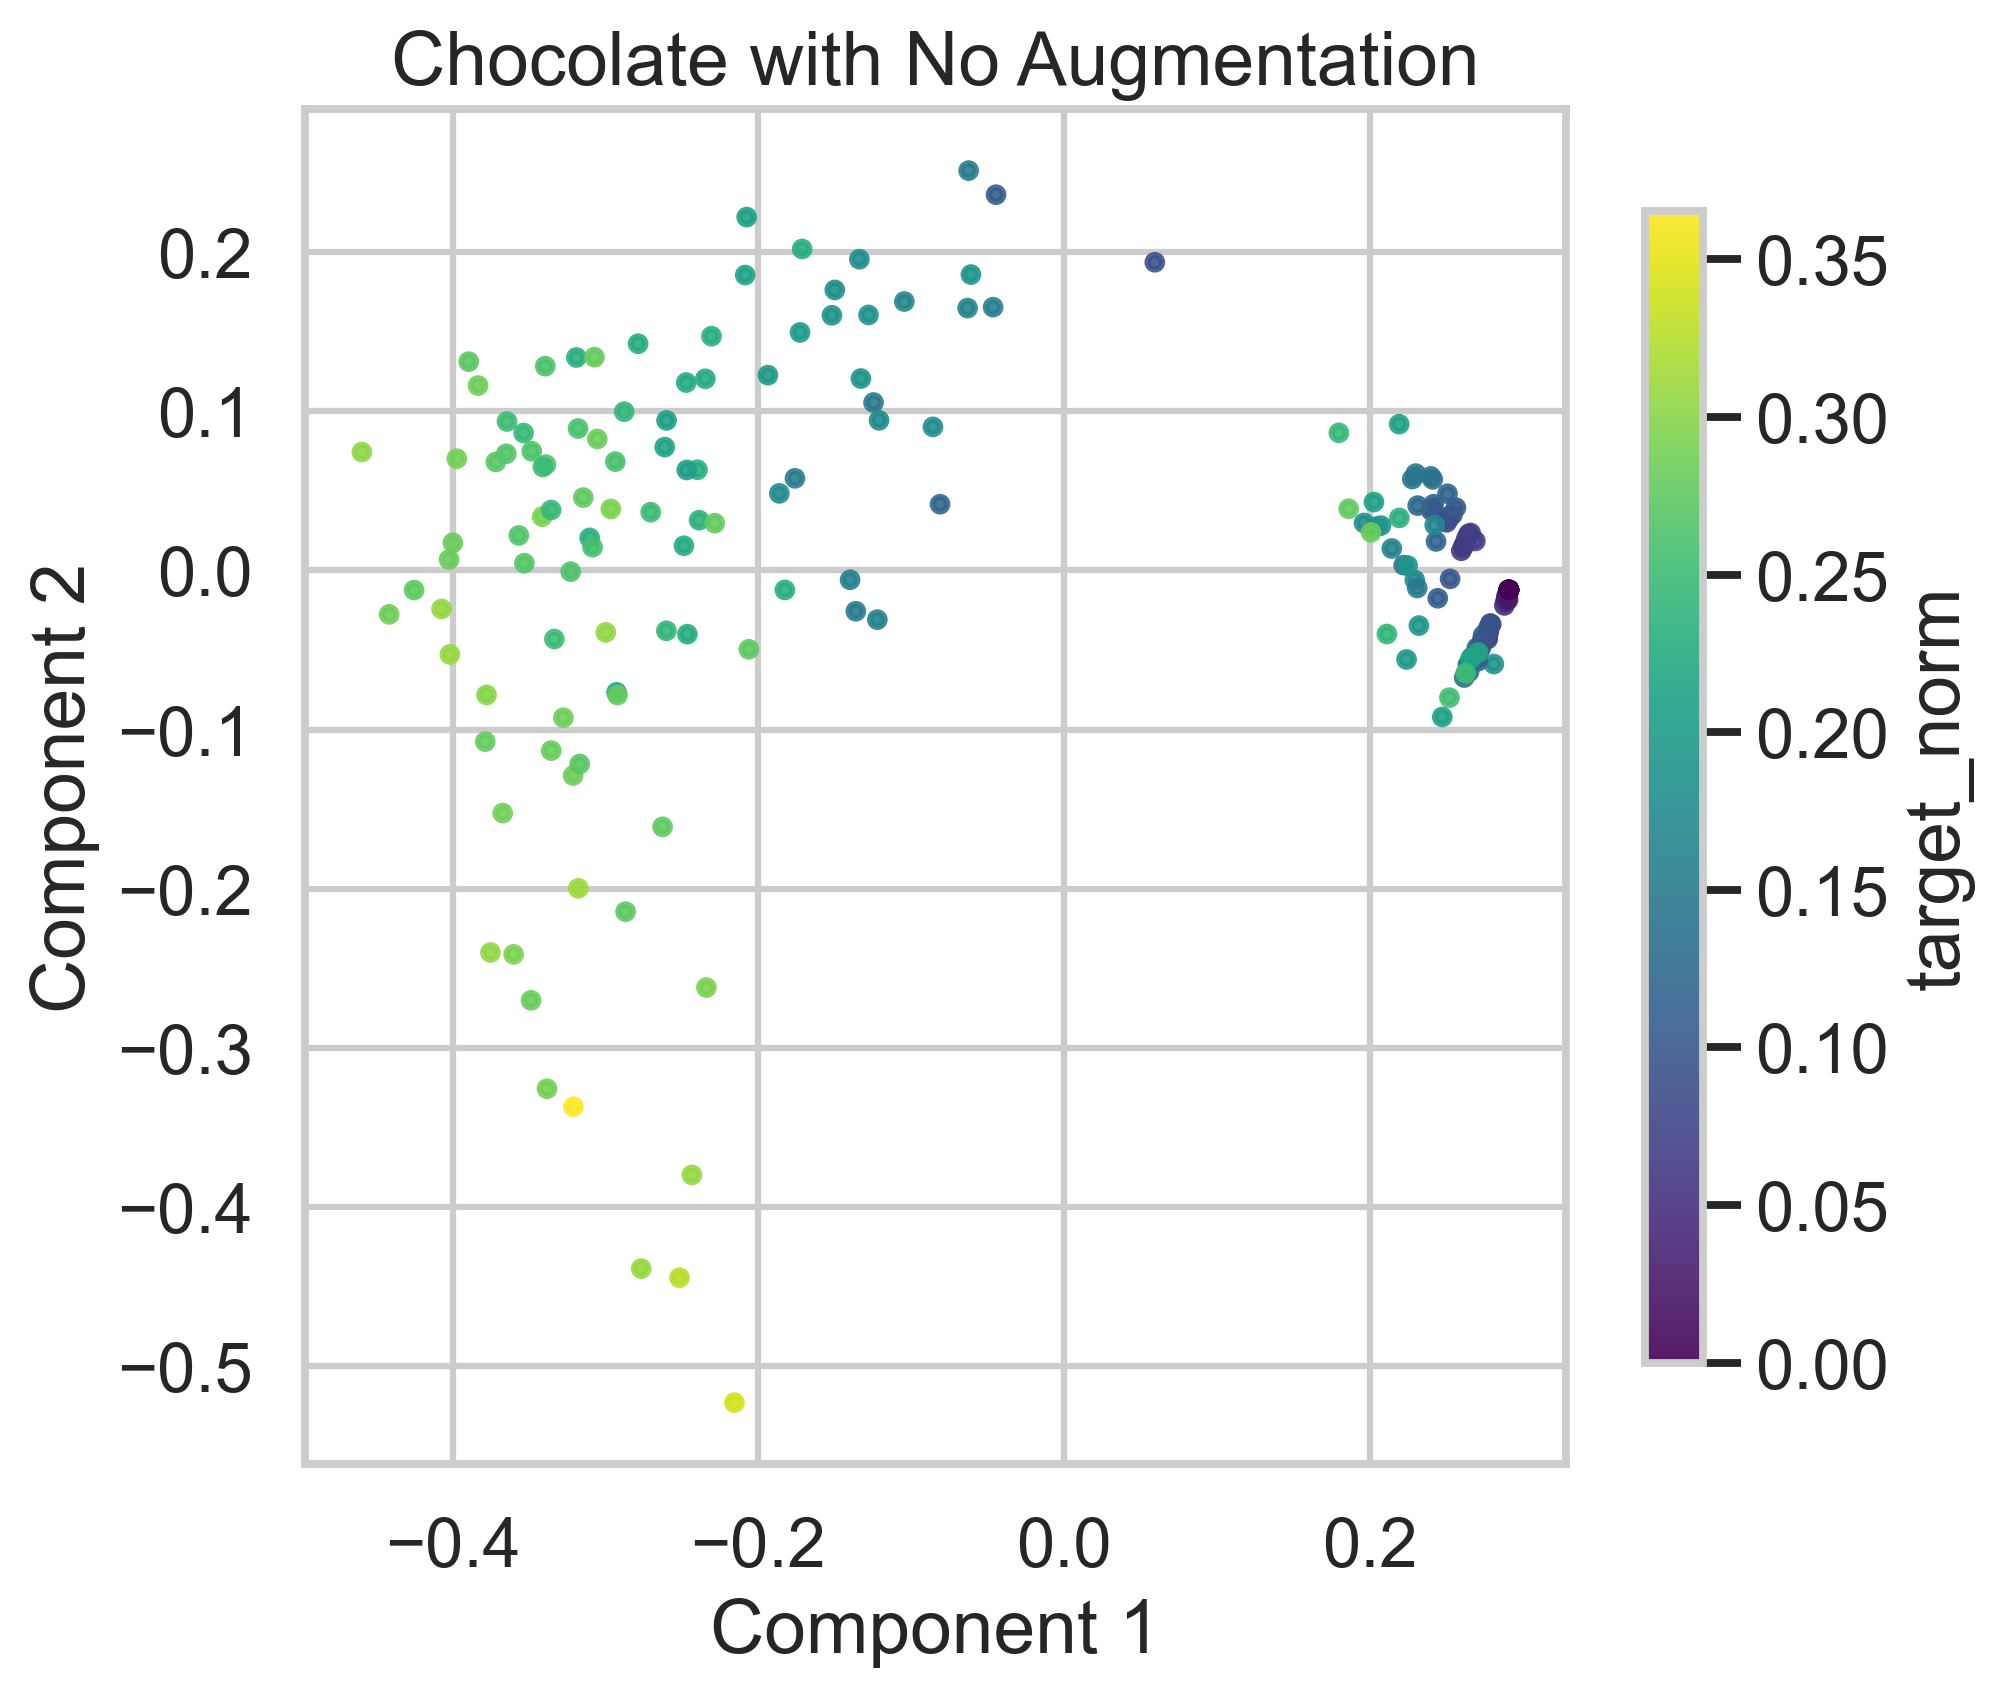
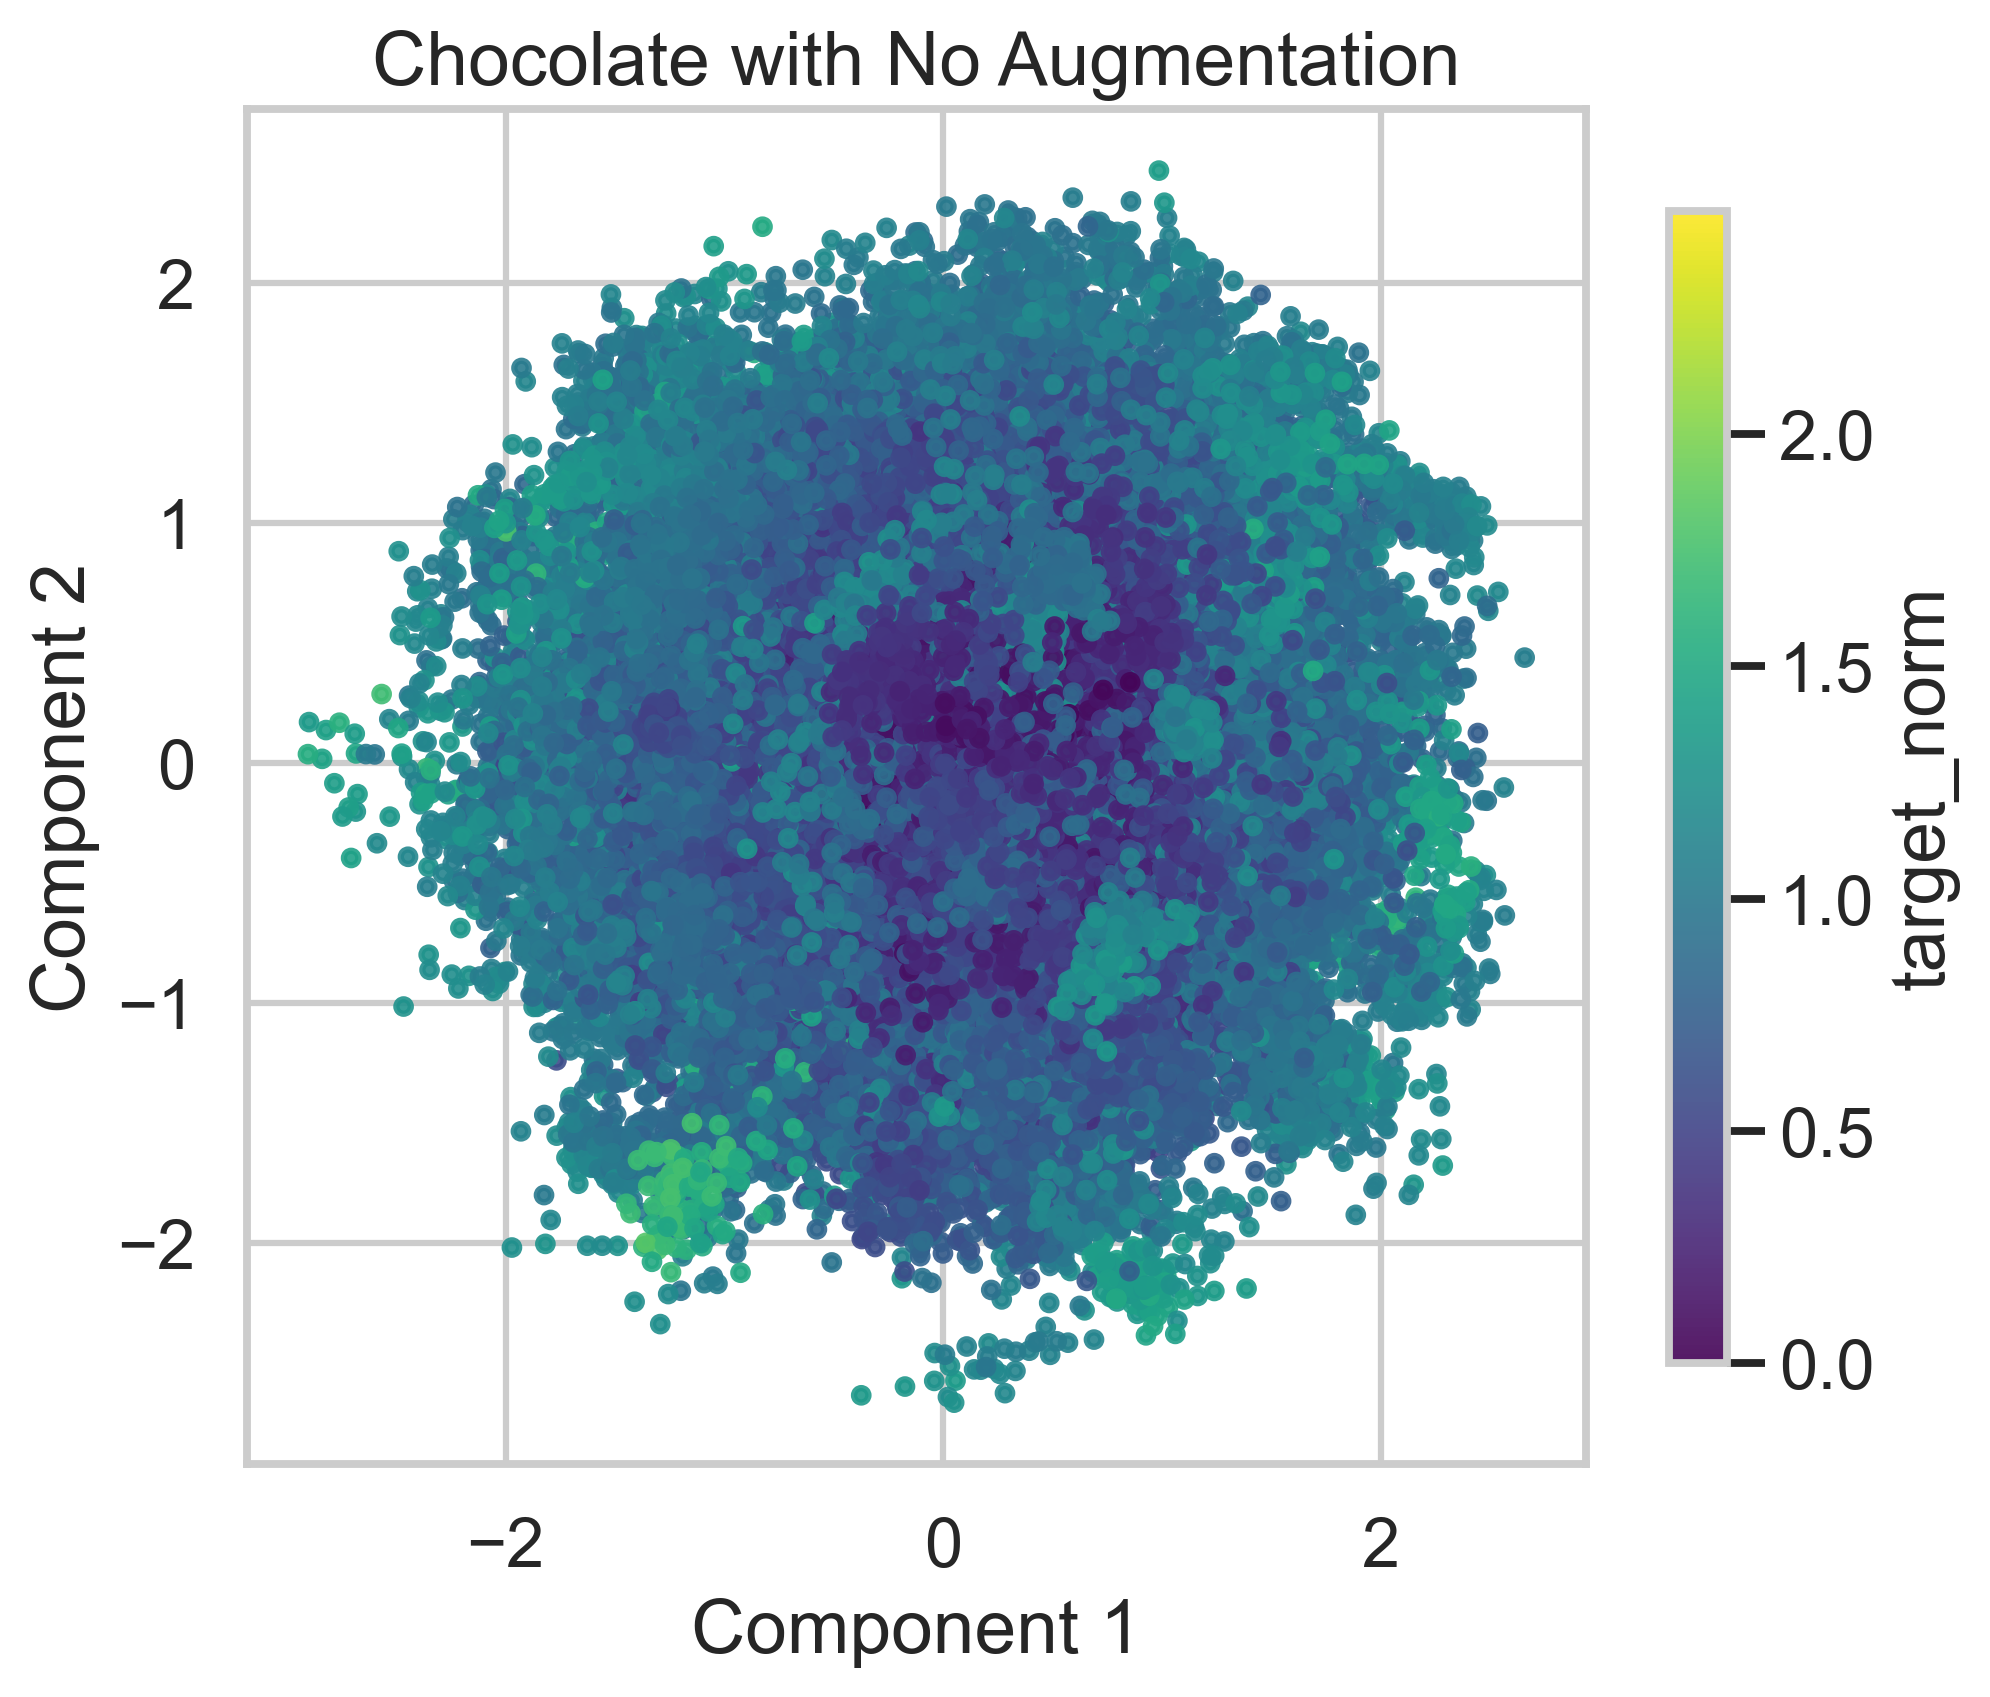
Edits

diff --git a/blog_template/index.html b/blog_template/index.html
@@ -2032,57 +2032,65 @@
       </div>
     </div>
 
-    <div class="content-margin-container">
-      <div class="margin-left-block"></div>
-      <div class="main-content-block">
-        <a id="evaluation"></a>
-        <h1>Evaluation</h1>
+		<!-- EVALUATION SECTION -->
+		<div class="content-margin-container">
+				<div class="margin-left-block">
+				</div>
+		    <div class="main-content-block">
+					<a id="evaluation"></a>
+					<h1>Evaluation</h1>
+					
+					<p>
+						Implementing layerwise losses adds a hard equivariance objective for the non-equivariant model.
+						Data augmentation alone provides a soft objective in favor of equivariance. Here we analyze
+						compare Chocolate's performance to all three training schedules of Strawberry.
+					</p>
+					<h3>RMSE Accuracy on Test Set</h3>
+					
+					<h3>Latent Geometry</h3>
+					To get a sense of the model's latent geometry, we performed PCA analysis on 
+					<div class="main-content-block">
+					<img src="./images/latent_pca_chocolate_none_checkpoint_epoch_20.png" width=512px/>
+					</div>
+					<div class="margin-right-block">
+							PCA analysis for latent vectors in Chocolate after training without any augmentations
+					</div>
+					</div>
+					
 
-        <p>
-          Implementing layerwise losses adds a hard equivariance objective for
-          the non-equivariant model. Data augmentation alone provides a soft
-          objective in favor of equivariance. Here we analyze Strawberry’s
-          performance with and without the additional layerwise equivariance
-          penalties. To evaluate whether including the layerwise losses enhanced
-          the model's ability to generalize to out of distribution data, we
-          performed the same analysis as in the previous section on molecules
-          from the [XYZ] dataset.
-        </p>
-        <h3>RMSE Accuracy on Test Set</h3>
-        <h3>Latent Geometry</h3>
-      </div>
-      <div class="margin-right-block"></div>
-    </div>
+					<div class="main-content-block">
+					<img src="./images/latent_pca_strawberry_superfib_intermediate_checkpoint_epoch_20.png" width=512px/>
+					</div>
+					<div class="margin-right-block">
+								PCA analysis for latent vectors in Strawberry after training with intermediate layerwise
+								losses
+					</div>
+					</div>
+							
 
-    <div class="content-margin-container">
-      <div class="margin-left-block"></div>
-      <div class="main-content-block">
-        <img
-          src="./images/latent_pca_chocolate_none_checkpoint_epoch_20.png"
-          width="512"
-          alt="Latent PCA Chocolate"
-        />
-      </div>
-      <div class="margin-right-block">
-        PCA analysis for latent vectors in Chocolate after training without any
-        augmentations.
-      </div>
-    </div>
+          <math display="block" xmlns="http://www.w3.org/1998/Math/MathML">
+              <mrow>
+                <mrow>
+                  <mo>&#x2202;</mo>
+                  <mi>y</mi>
+                </mrow>
+                <mo>/</mo>
+                <mrow>
+                  <mo>&#x2202;</mo>
+                  <mi>x</mi>
+                </mrow>
+              </mrow>
+              <mo>=</mo>
+              <mi>x</mi>
+            </math>
+          <br>
+          
 
-    <div class="content-margin-container">
-      <div class="margin-left-block"></div>
-      <div class="main-content-block">
-        <img
-          src="./images/latent_pca_strawberry_superfib_intermediate_checkpoint_epoch_20.png"
-          width="512"
-          alt="Latent PCA Strawberry"
-        />
-      </div>
-      <div class="margin-right-block">
-        PCA analysis for latent vectors in Strawberry after training with
-        intermediate layerwise losses.
-      </div>
-    </div>
+		    </div>
+		    <div class="margin-right-block" style="transform: translate(0%, -100%);"> 
+          Interestingly, Plato also asked if X does Y, in <a href="#ref_1">[1]</a>.
+		    </div>
+		</div>
 
     <div class="content-margin-container" id="conclusion">
       <div class="margin-left-block"></div>

diff --git a/orbit_eval.py b/orbit_eval.py
@@ -24,8 +24,10 @@ LR = 0.001
 DATASET_TAG = "mini_200_conf_qm7x_processed_train"
 CHECKPOINT_ROOT = Path("checkpoints")
 
-N_ROTATIONS = 32   # how many SO(3) samples to test
-BATCH_SIZE = 1     # important: 1 molecule per batch
+N_ROTATIONS = 64   # how many SO(3) samples to test
+BATCH_SIZE = 1     # process one molecule per batch for clean equivariance eval
+MAX_MOLECULES = 256  # set to None to use all; lower to speed up evaluation
+MAX_MOLECULES = 64  # set None to evaluate all molecules; lower to speed up
 
 
 # ---------------------------------------------------------
@@ -155,10 +157,10 @@ def compute_equivariance_error(model, graph, rotations):
 def main():
     # load dataset
     dataset = QM7XDataset("data/mini_200_conf_qm7x_processed_val.h5")
-    dataset = Subset(dataset, [0])  # test on 1 molecule
-    loader = DataLoader(dataset, batch_size=1, shuffle=False)
-
-    graph = next(iter(loader))
+    if MAX_MOLECULES is not None:
+        max_len = min(len(dataset), MAX_MOLECULES)
+        dataset = Subset(dataset, list(range(max_len)))
+    loader = DataLoader(dataset, batch_size=BATCH_SIZE, shuffle=False)
 
     # rotation samples
     rotations = superfibonacci_rotations(N_ROTATIONS, device=DEVICE, dtype=torch.float32)
@@ -179,12 +181,13 @@ def main():
             load_checkpoint(model, ckpt_path)
 
             print(f"Testing equivariance: {model_type}/{augment_type}")
-            layer_errors = compute_equivariance_error(model, graph, rotations)
+            for graph in loader:
+                layer_errors = compute_equivariance_error(model, graph, rotations)
 
-            all_results[(model_type, augment_type)] = layer_errors
+                all_results[(model_type, augment_type)] = layer_errors
 
-            for i, err in enumerate(layer_errors):
-                print(f"  Layer {i}: equivariance error = {err:.3e}")
+                for i, err in enumerate(layer_errors):
+                    print(f"  Layer {i}: equivariance error = {err:.3e}")
 
     # ---- summary table ----
     print("\n=== Equivariance Summary ===")

diff --git a/geom_analysis.py b/geom_analysis.py
@@ -36,9 +36,9 @@ DEVICE = torch.device('cpu')
 
 SMALL_DATASETS = [
     "data/mini_200_conf_qm7x_processed_val.h5",
-    "data/mini_200_conf_qm7x_processed_train.h5",
 ]
-MAX_CONFS = 200
+MAX_CONFS = 5000000
+CONFS_PER_MOL = 1  # set to 1 to include all conformers; adjust if grouping by molecule
 PROJECTION_METHOD = "pca"
 PROJECTION_DIM = 2
 COLOR_BY = "target_norm"
@@ -254,7 +254,9 @@ def latest_checkpoint(ckpt_dir: Path) -> Optional[Path]:
 def main():
     dataset_path = pick_existing(*SMALL_DATASETS)
     base_dataset = QM7XDataset(dataset_path)
-    dataset = Subset(base_dataset, range(min(len(base_dataset), MAX_CONFS)))
+    # Use all conformers from the validation set (up to MAX_CONFS)
+    dataset_indices = list(range(min(len(base_dataset), MAX_CONFS)))
+    dataset = Subset(base_dataset, dataset_indices)
 
     loader = DataLoader(
         dataset,
